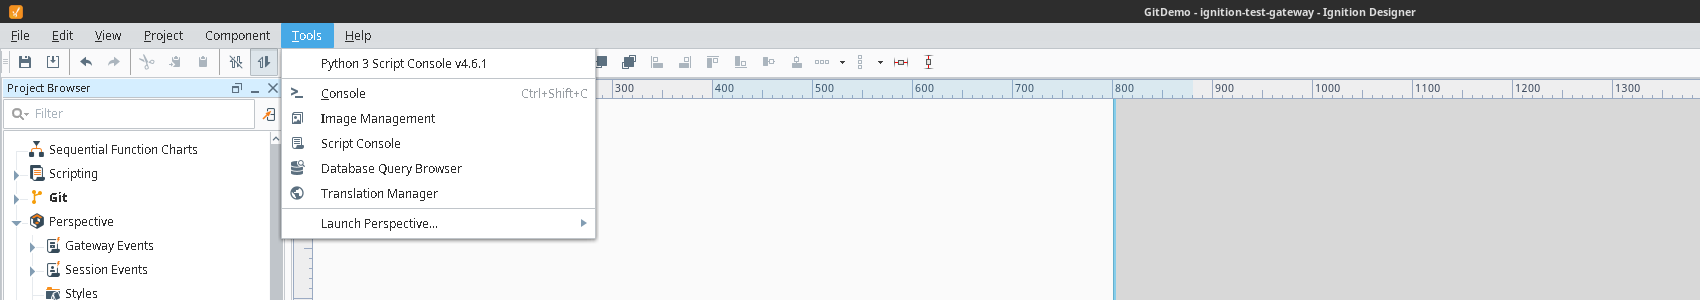
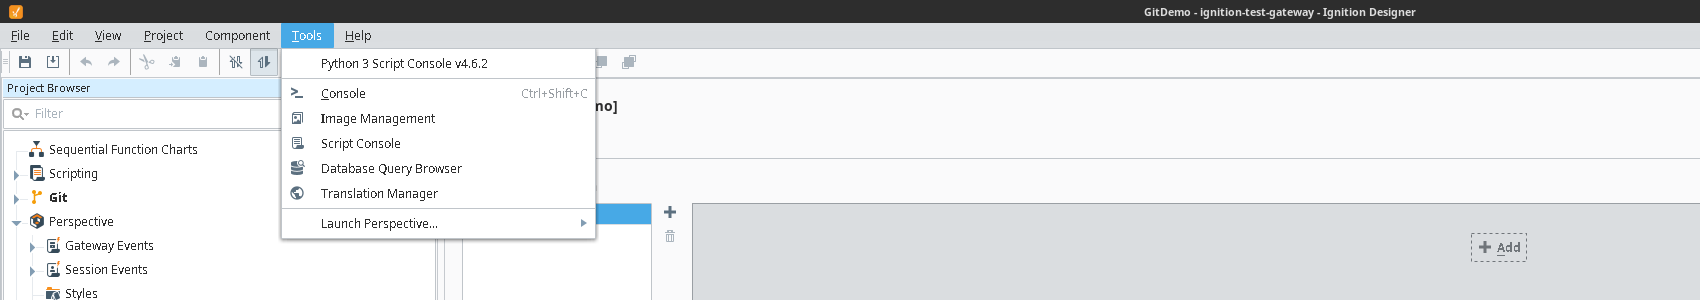
docs: recapture the Tools menu now that 4.6.2 is installed
The menu entry is labelled with the module version, so shipping 4.6.2 made the
screenshot show v4.6.1 the moment it was released — caught by the README gate
during that release, which is what the gate is for.

Recaptured against the gateway now running 4.6.2 and updated the alt text to
match. Verified the version string is natively rendered, not edited.

diff --git a/README.md b/README.md
@@ -53,7 +53,7 @@ run completed and returned its result dict, shown in the Output pane.*
 a bolted-on window — it gets its own tree icons and its own right-click menu
 alongside the built-in nodes like Perspective and Transaction Groups.*
 
-![The Designer's Tools menu with a "Python 3 Script Console v4.6.1" entry added above the built-in Console and Script Console items](docs/images/designer-tools-menu.png)
+![The Designer's Tools menu with a "Python 3 Script Console v4.6.2" entry added above the built-in Console and Script Console items](docs/images/designer-tools-menu.png)
 *The module registers itself in the Designer's own Tools menu, versioned
 alongside the rest of the built-in tools.*
 
